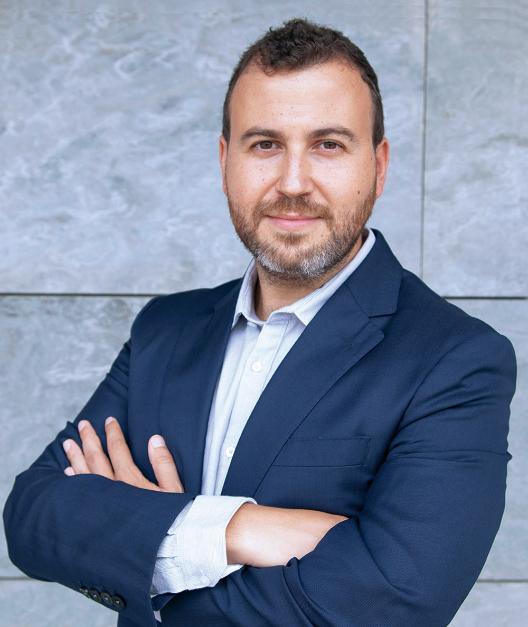
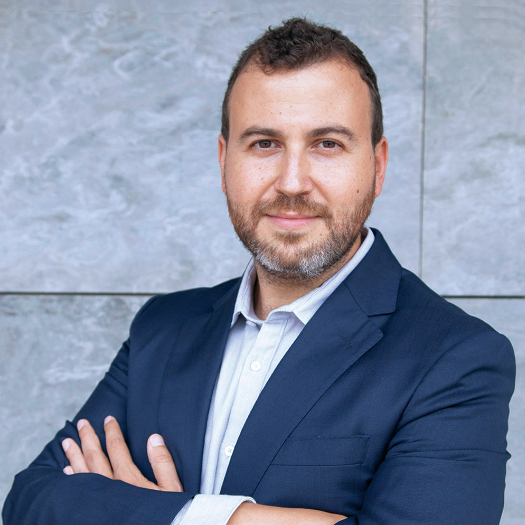
Fix images

diff --git a/index.html b/index.html
@@ -1071,7 +1071,7 @@
 
                     <div class="member-card">
                         <div class="member-photo">
-                            <img src="static/images/hansen.jpg" alt="Pierre Hansen">
+                            <img src="static/images/hansen_square.jpg" alt="Pierre Hansen">
                         </div>
                         <div class="member-info">
                             <h4>Pierre Hansen (1940-2025)</h4>
